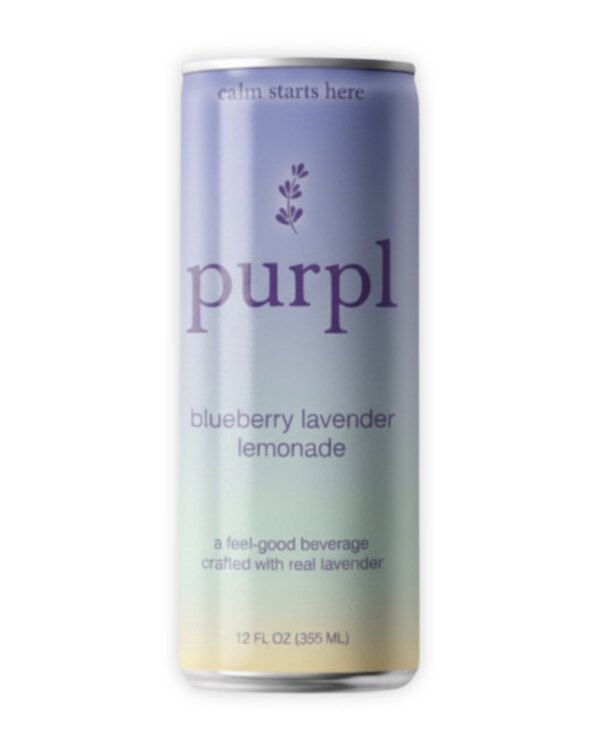
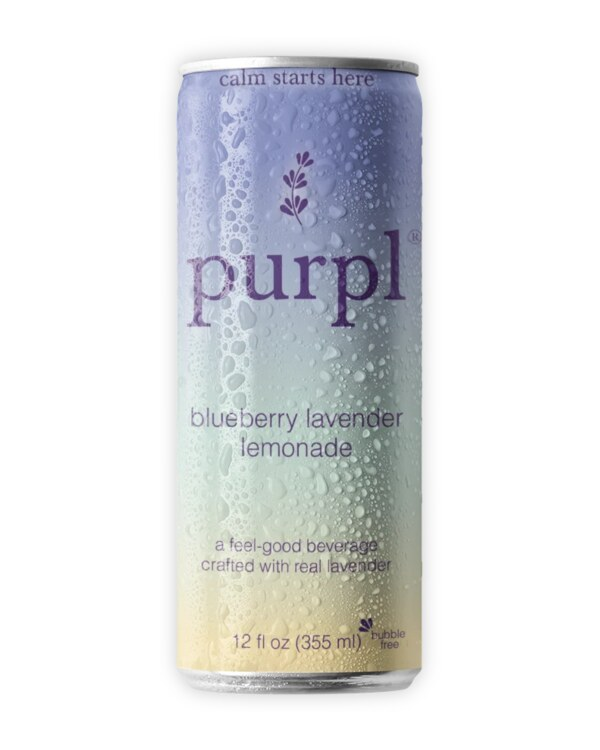
v272: portal — variety products first, 10-day lead time, new can and eye pillow photos
- Products with varieties render first so the top row is the three
  'Choose varieties' cards (display order only).
- Lead time is 10 business days on the order page (delivery note and
  terms) and in the approved-welcome email.
- New photos for the three purpl cans and the eye pillow, on white at
  the same size and shadow as the rest; photo version tag bumped.

Claude-Session: https://claude.ai/code/session_01GpvpSyx5MTKYagrAMRXCMf

diff --git a/public/order.html b/public/order.html
@@ -413,7 +413,7 @@ input:focus,textarea:focus,select:focus{outline:none;border-color:var(--purpl);b
       <div class="pgrid">
         <!-- Classic — active -->
         <div class="pcard" id="purpl-classic-card">
-          <img class="pimg tall" src="/images/portal-can-classic.jpg?v=271" alt="Classic Lavender Lemonade" onerror="this.src='/images/purpl-logo-top-sprig.png';this.classList.add('pimg-fallback')">
+          <img class="pimg tall" src="/images/portal-can-classic.jpg?v=272" alt="Classic Lavender Lemonade" onerror="this.src='/images/purpl-logo-top-sprig.png';this.classList.add('pimg-fallback')">
           <div class="pbody">
             <div class="product-name">Classic Lavender Lemonade</div>
             <div class="price-display" id="price-display"></div>
@@ -437,7 +437,7 @@ input:focus,textarea:focus,select:focus{outline:none;border-color:var(--purpl);b
 
         <!-- Blueberry — coming soon -->
         <div class="pcard soon">
-          <img class="pimg tall" src="/images/portal-can-blueberry.jpg?v=271" alt="Blueberry Lavender Lemonade" onerror="this.src='/images/purpl-logo-top-sprig.png';this.classList.add('pimg-fallback')">
+          <img class="pimg tall" src="/images/portal-can-blueberry.jpg?v=272" alt="Blueberry Lavender Lemonade" onerror="this.src='/images/purpl-logo-top-sprig.png';this.classList.add('pimg-fallback')">
           <div class="pbody">
             <div class="product-name">Blueberry Lavender Lemonade</div>
             <div><span class="coming-soon-badge" style="margin-left:0">Coming Soon</span></div>
@@ -450,7 +450,7 @@ input:focus,textarea:focus,select:focus{outline:none;border-color:var(--purpl);b
 
         <!-- Peach — coming soon -->
         <div class="pcard soon">
-          <img class="pimg tall" src="/images/portal-can-peach.jpg?v=271" alt="Peach Lavender Lemonade" onerror="this.src='/images/purpl-logo-top-sprig.png';this.classList.add('pimg-fallback')">
+          <img class="pimg tall" src="/images/portal-can-peach.jpg?v=272" alt="Peach Lavender Lemonade" onerror="this.src='/images/purpl-logo-top-sprig.png';this.classList.add('pimg-fallback')">
           <div class="pbody">
             <div class="product-name">Peach Lavender Lemonade</div>
             <div><span class="coming-soon-badge" style="margin-left:0">Coming Soon</span></div>
@@ -512,7 +512,7 @@ input:focus,textarea:focus,select:focus{outline:none;border-color:var(--purpl);b
         <strong>purpl orders:</strong> Free delivery on 8+ cases throughout New Hampshire, Massachusetts, Southern Maine, and Southern Vermont. Smaller orders — warehouse pickup or parcel shipment (USPS, UPS, FedEx), billed at cost.<br>
         <strong>Lavender Fields orders:</strong> Free delivery on orders of $250 or more in those areas; smaller orders by pickup or parcel.<br>
         <strong>Ordering both:</strong> purpl and Lavender Fields combine — free delivery once you reach 8 cases of purpl or $250 total, in one drop.<br>
-        Other areas are served via scheduled routes or parcel shipping. Please allow 7 business days lead time for delivery.<br><br>
+        Other areas are served via scheduled routes or parcel shipping. Please allow 10 business days lead time for delivery.<br><br>
         Questions? Contact Graham directly — <a href="mailto:graham@pumpkinblossomfarm.com">graham@pumpkinblossomfarm.com</a> · <a href="tel:6037483038">603-748-3038</a>
       </div>
 
@@ -565,7 +565,7 @@ input:focus,textarea:focus,select:focus{outline:none;border-color:var(--purpl);b
         <strong>Delivery — purpl:</strong> Free on 8+ cases throughout New Hampshire, Massachusetts, Southern Maine, and Southern Vermont; smaller orders by warehouse pickup or parcel (billed at cost).<br>
         <strong>Delivery — Lavender Fields:</strong> Free on orders of $250 or more in those areas; smaller orders by pickup or parcel.<br>
         <strong>Delivery — both together:</strong> purpl and Lavender Fields combine — free once you reach 8 cases of purpl or $250 total. Other areas served via scheduled routes or parcel.<br>
-        <strong>Lead Time:</strong> Please allow 7 business days for delivery.<br>
+        <strong>Lead Time:</strong> Please allow 10 business days for delivery.<br>
         <strong>Damaged/Short Shipments:</strong> Please inspect your shipment upon arrival and report any issues within 48 hours of receipt.<br>
         <strong>Pricing:</strong> We reserve the right to update pricing with 30 days' notice.
       </div>
@@ -763,7 +763,7 @@ function lfSkuImage(s) {
 // v271: photos keep their file names when they are replaced, and browsers
 // hold images for a while — so a replaced photo kept showing the old one.
 // Bump this whenever product photos change.
-var LF_IMG_VERSION = '?v=271';
+var LF_IMG_VERSION = '?v=272';
 function lfSkuImageUrl(s) {
   var u = lfSkuImage(s);
   return /^\/images\/portal-/.test(u) ? u + LF_IMG_VERSION : u;
@@ -804,7 +804,12 @@ function renderLfSkus(skus, prevOrder) {
     return;
   }
   var modals = '';
-  container.innerHTML = skus.map(function(s) {
+  // v272 (owner): products with varieties come first so the top row is the
+  // "Choose varieties" cards and the rows look even. Display order only —
+  // _lfSkus keeps the catalog order, so the submitted order is unchanged.
+  var _hasVar = function(s){ return (s.variants||[]).some(function(v){return !v.archived;}); };
+  var ordered = skus.filter(_hasVar).concat(skus.filter(function(s){ return !_hasVar(s); }));
+  container.innerHTML = ordered.map(function(s) {
     var name = escHtml(s.name || '');
     var img = lfSkuImageUrl(s);
     var activeVariants = (s.variants||[]).filter(function(v){return !v.archived;});

diff --git a/public/app.js b/public/app.js
@@ -14,7 +14,7 @@ const PURPL_DIRECT_PER_CASE = PURPL_WHOLESALE_PER_CAN * CANS_PER_CASE; // $27.60
 
 // Bump together with sw.js CACHE on every deploy. Shown in the sidebar so
 // "am I running the new code?" is answerable at a glance.
-const APP_VERSION = 'v271';
+const APP_VERSION = 'v272';
 (function(){ const el = document.getElementById('app-version'); if (el) el.textContent = 'purpl CRM ' + APP_VERSION; })();
 
 function _costs() { return DB?.obj?.('costs', {cogs:{}, target_margin:0.60, overhead_monthly:1200}) || {cogs:{}, target_margin:0.60, overhead_monthly:1200}; }
@@ -1266,7 +1266,7 @@ function getCadenceEmailTemplate(stage, account, extra={}) {
               <strong>Lavender Fields orders:</strong> Free delivery on orders of $250 or more in those areas; smaller orders by pickup or parcel.<br>
               <strong>Ordering both:</strong> purpl and Lavender Fields combine — free delivery once you hit 8 cases of purpl or $250 total, in one drop.<br>
               <strong>Payment:</strong> Net 30 from invoice date. Invoices from lavender@pbfwholesale.com.<br>
-              <strong>Lead time:</strong> Please allow 7 business days.
+              <strong>Lead time:</strong> Please allow 10 business days.
             </div>
           </td></tr>
         </table>

diff --git a/tests/backtests/wave39-backtest.js b/tests/backtests/wave39-backtest.js
@@ -91,5 +91,13 @@ console.log('[C] photos, summary, catalog');
   ok(rl.includes("var name = escHtml(s.name || '');") && rl.includes("var vn = escHtml(v.name || '');"), 'cards and pop-ups escape product and variety names');
 }
 
+console.log('[D] v272 owner changes');
+{
+  ok(ord.includes('var ordered = skus.filter(_hasVar).concat(skus.filter(function(s){ return !_hasVar(s); }));') && ord.includes('container.innerHTML = ordered.map('),
+    'products with varieties render first; catalog order (_lfSkus) is left alone');
+  ok((ord.match(/10 business days/g) || []).length === 2 && !/7 business days/.test(ord) && !/7 business days/.test(src) && src.includes('Please allow 10 business days.'),
+    'lead time is 10 business days on the order page and in the welcome email');
+}
+
 console.log(`\n${pass} passed, ${fail} failed`);
 process.exit(fail ? 1 : 0);

diff --git a/tests/portal/portal-browser-test.js b/tests/portal/portal-browser-test.js
@@ -41,6 +41,8 @@ const ok = (c, m) => { if (c) { pass++; console.log('  ✓ ' + m); } else { fail
     await page.waitForSelector('#lf-sku-list .pcard');
     ok((await page.locator('#lf-sku-list .pcard').count()) === 8, 'fallback catalog renders 8 product cards');
     ok((await page.locator('#lf-vmodal-host .vmodal').count()) === 3, 'three products have a variety pop-up');
+    const firstThree = await page.evaluate(() => [...document.querySelectorAll('#lf-sku-list .pcard')].slice(0, 3).map(c => !!c.querySelector('.pbtn')));
+    ok(firstThree.every(Boolean), 'the three products with varieties are listed first');
     ok(await page.locator('#submit-btn').isDisabled(), 'submit starts disabled');
 
     // purpl stepper

diff --git a/public/sw.js b/public/sw.js
@@ -1,5 +1,5 @@
 // purpl CRM Service Worker — offline shell caching
-const CACHE = 'purpl-crm-v271'; // bump on every deploy
+const CACHE = 'purpl-crm-v272'; // bump on every deploy
 const SHELL = [
   '/',
   '/index.html',
